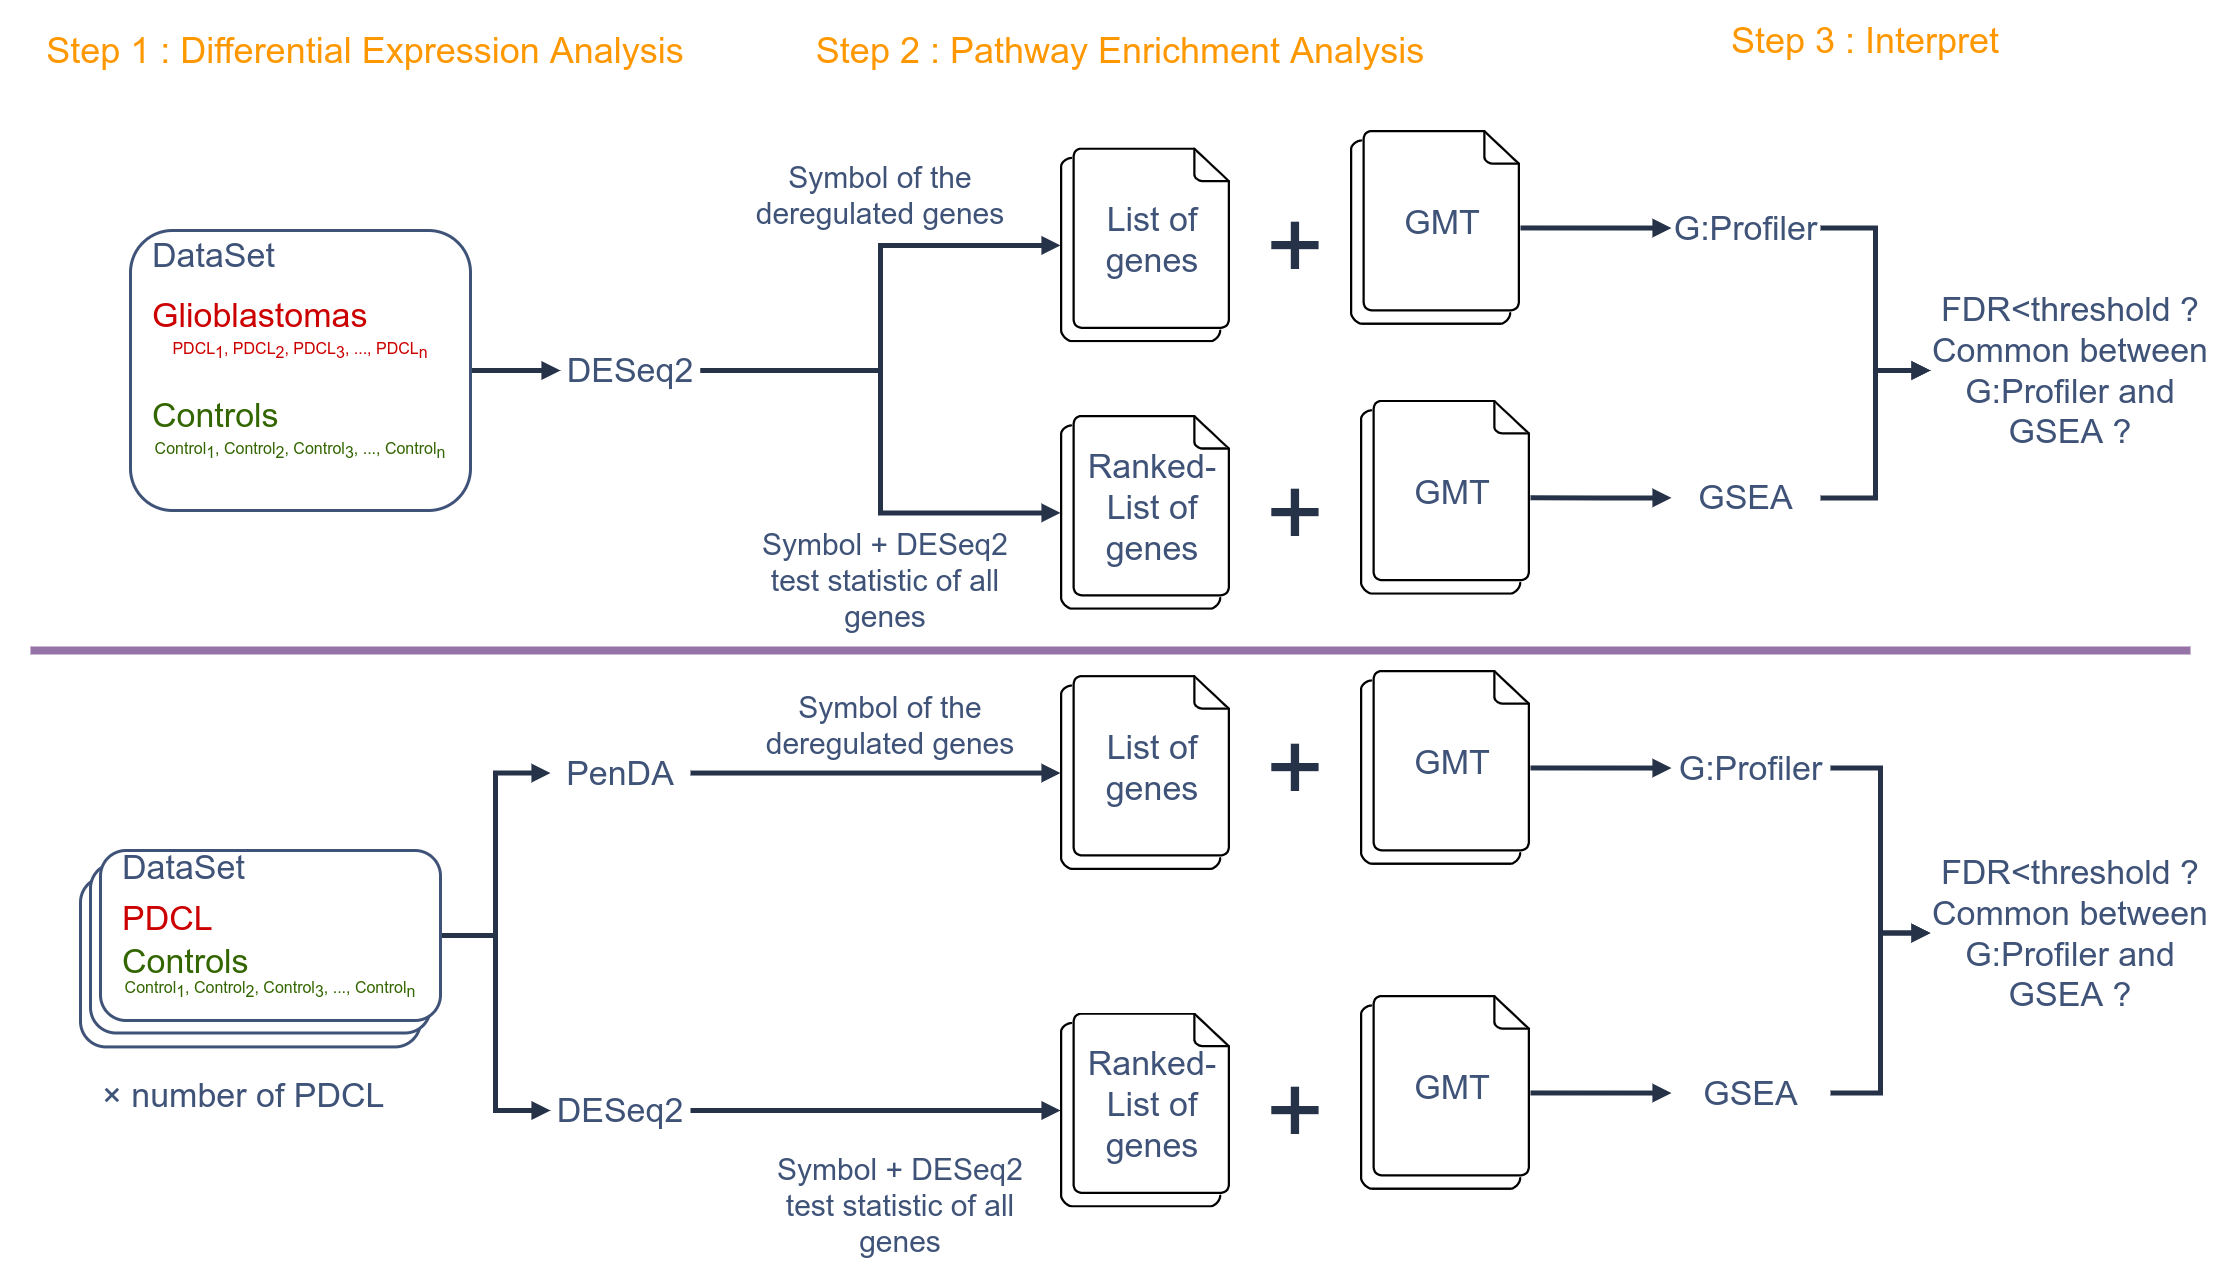
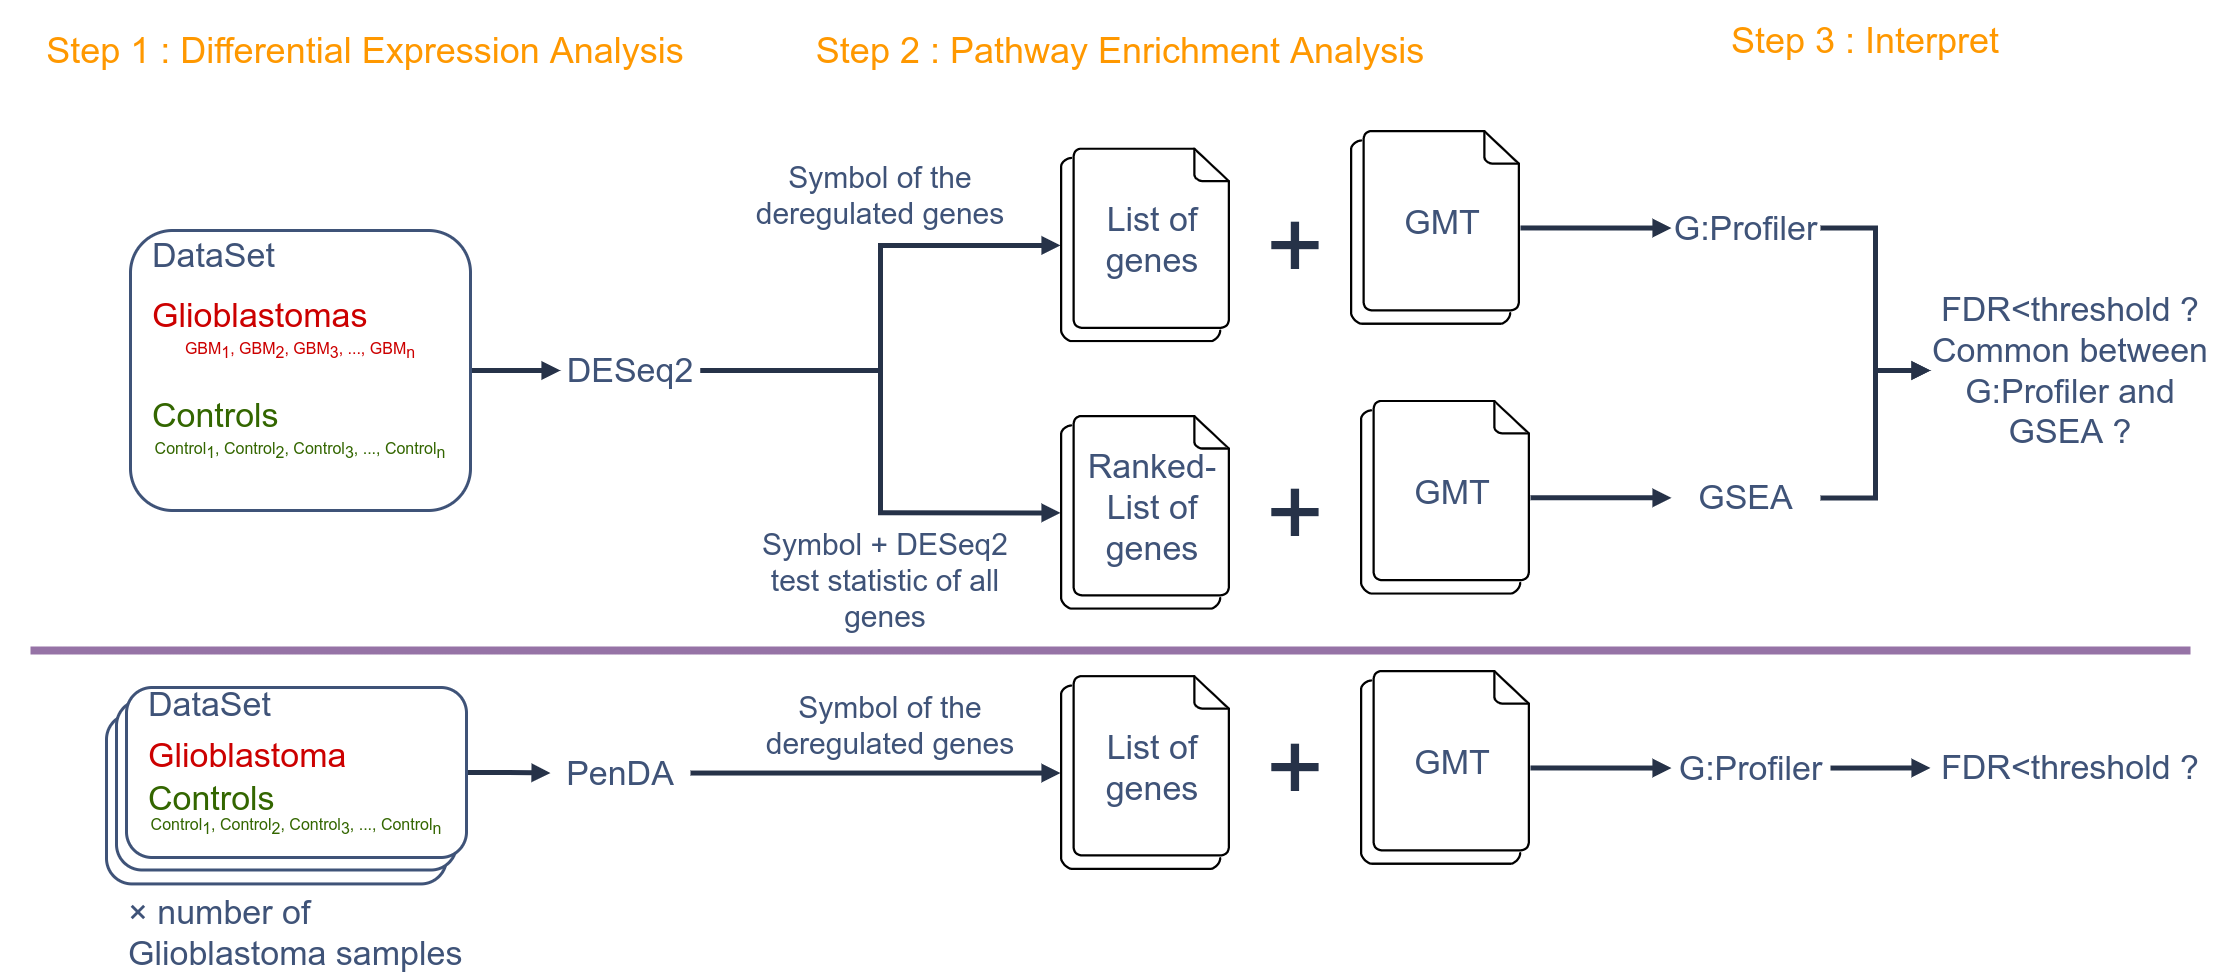
delete deseq2 from personnalized analysis

diff --git a/manuscript/material-method.tex b/manuscript/material-method.tex
@@ -68,12 +68,12 @@ In this study, we selected DESeq2 \cite*{Love2014} and \acrfull{penda} to carry 
 \acrshort{de} analysis was performed on the two datasets \acrshort{pdcl} and \acrshort{tcga} where we compared all the tumourous samples against all the normal samples (glioblastoma versus normal).
 With this approach, we identify a typical profile or the typical gene deregulations in the case of glioblastoma.
 Glioblastomas are known to be heterogeneous tumours, hindering therapeutic success \cite*{Neftel2019,Delgado-Lopez2016, Quinones2018}.
-Since the approach described does not account for heterogeneity between patients, we compared each sample from the \acrshort{pdcl} dataset one by one with all the controls.
+Since the approach described does not account for heterogeneity between patients, we compared each sample one by one with all the controls for both datasets.
 This second approach defines the deregulation for each sample, giving the ability to determine the biological functions that are frequently deregulated or cell line specific.
 However, DESeq2 hypothesis assumes several replicates are available in the dataset.
-This condition is not met since the \acrshort{pdcl} dataset contains one replicate per patient, leading to reduced accuracy.
-In addition to DESeq2, results generated with \acrshort{penda} during a previous study were used for this analysis.
-The results from DESeq2 and \acrshort{penda} were fed to different pathway enrichment tools.
+This condition is not met since in this case we compare only one sample with no replicate against all the controls, leading to reduced accuracy.
+Thus we will use \acrshort{penda}, a statistical method designed for this purpose.
+Because this tool does not compute a metric to perform its test (rank comparison method) the results from \acrshort{penda} are then fed to G:Profiler only.
 
 \subsubsection{DESeq2}
 
@@ -91,6 +91,7 @@ In comparison, population-scale analysis tools like DESeq2 usually model the dat
 Those methods were designed to investigate typical gene deregulations patterns, consequently, they do not provide information at the individual scale.
 They are also sensitive to batch effects and the choice of normalization applied.
 With all these limitations in mind, \acrshort{penda} was designed to investigate gene expression data at the individual scale with robustness to batch and normalization effects.
+For our PenDA analysis, we normalize the counts using the pseudo-count method ( $log_2(count + 1)$ ) from the DESeq2 package before filtering and ranking with the \acrshort{penda}.
 
 \subsection{Pathway Enrichment Analysis}
 
@@ -173,13 +174,13 @@ Plots and reports, available as supplementary materials, were generated with the
     \includegraphics[width=\textwidth]{img/workflow-diagram}
     \caption{
         Diagram of the overall approach to search for the altered biological functions in glioblastoma.
-        The top panel describes the workflow to find the typical deregulation in glioblastoma while the bottom panel represents the workflow to analyze the specificities of each sample in the \acrshort{pdcl} dataset.
-        In the first case, the dataset includes the expression of all tumour samples and control samples.
-        Here, only DESeq2 is used for \acrlong{de} analysis.
-        In the second case, one dataset is created per sample with one \acrshort{pdcl} and all the controls.
-        \acrshort{penda} and DESeq2 are used for \acrlong{de} analysis.
-        In both cases, G:Profiler and \acrshort{gsea} are selected to carry out pathway enrichment.
-        Then we filter out pathways that do not pass the threshold of significance or that are not common to the two pathway enrichment tools.
+        The top panel describes the workflow to find the typical deregulation in glioblastoma : a global analysis at the population level.
+        In this case, we compare all the controls against all the glioblastoma samples in the dataset.
+        We use DESeq2 to perform the \acrlong{de} analysis with each tumour and control samples considered as a "replicate of a typical patient or normal tissue".
+        Then, we use G:Profiler and \acrshort{gsea} on the result of DESeq2 to perform pathway enrichment.
+        The bottom panel describes the workflow adopted to assess the specific deregulations of each samples in both datasets : a personnalized analysis.
+        Here we PenDA, a tool designed to perform \acrshort{de} analysis at the individual scale.
+        In this case, we only apply G:Profiler on the PenDA results.
     }
     \label{fig:workflow-diagram-global}
 \end{figure}
